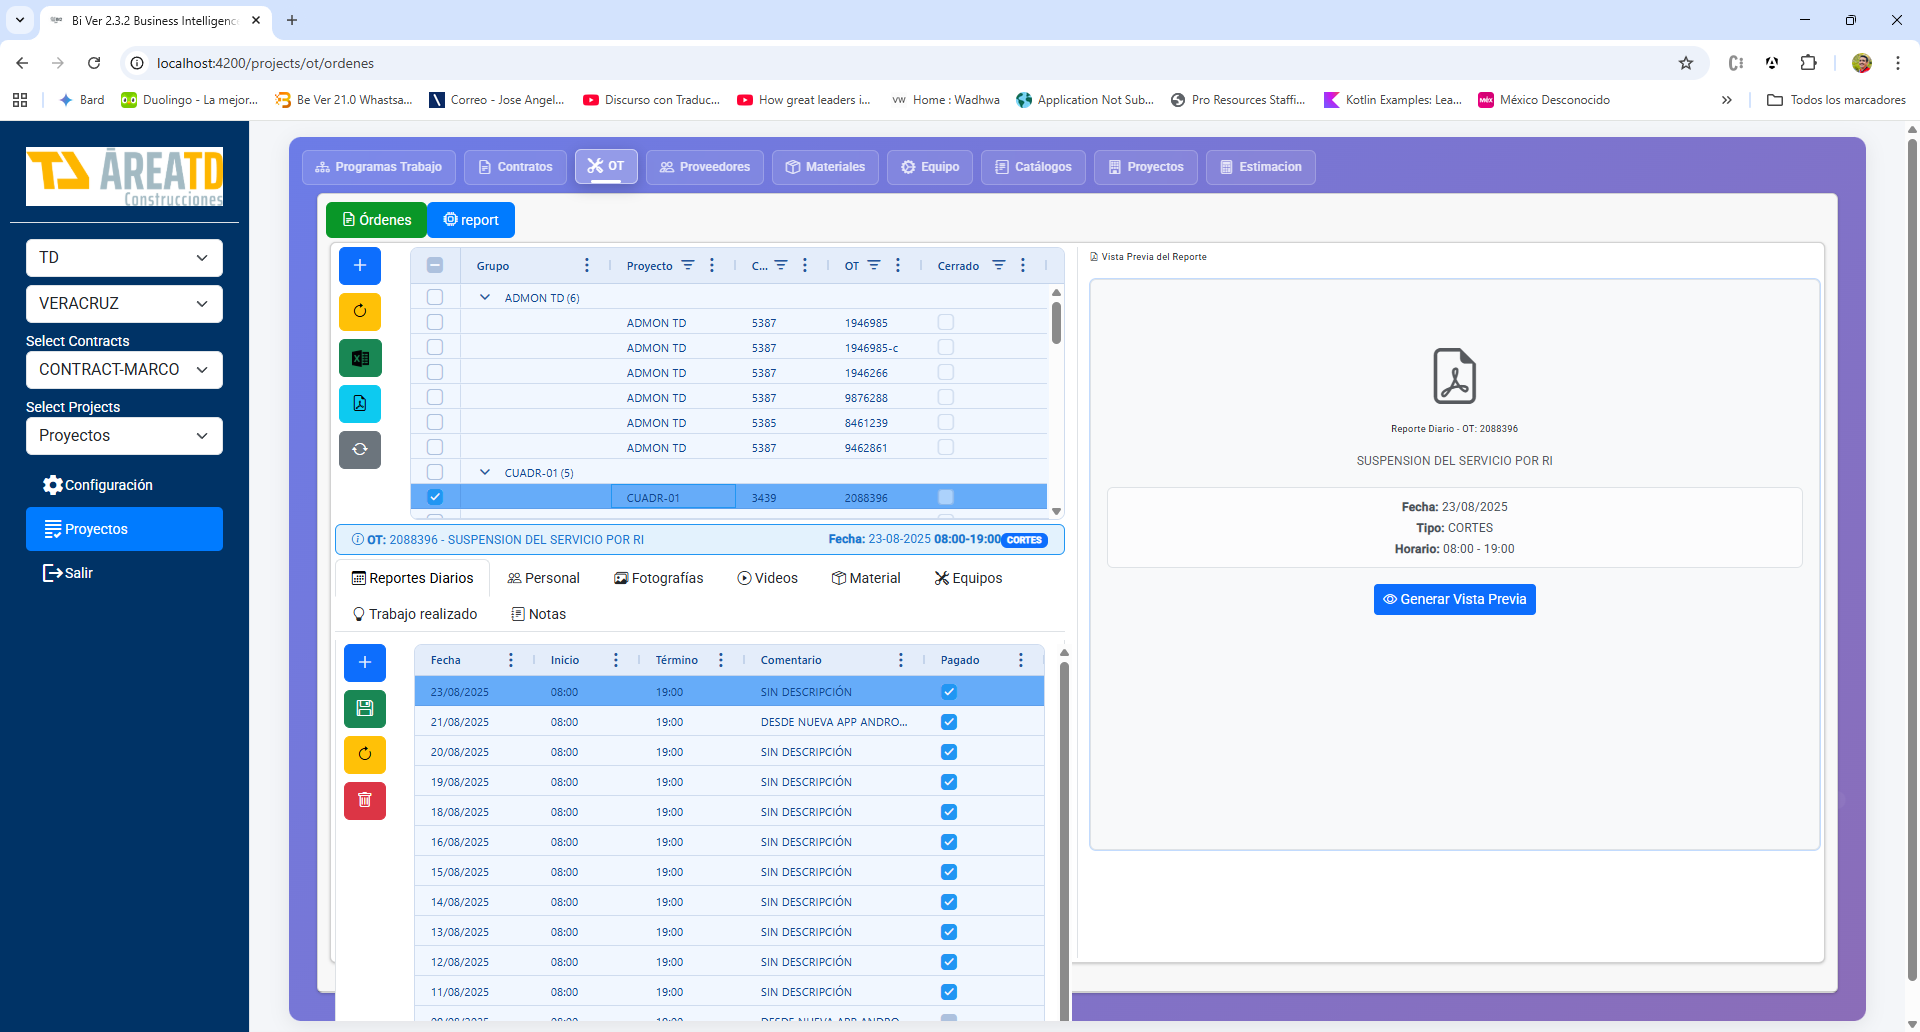
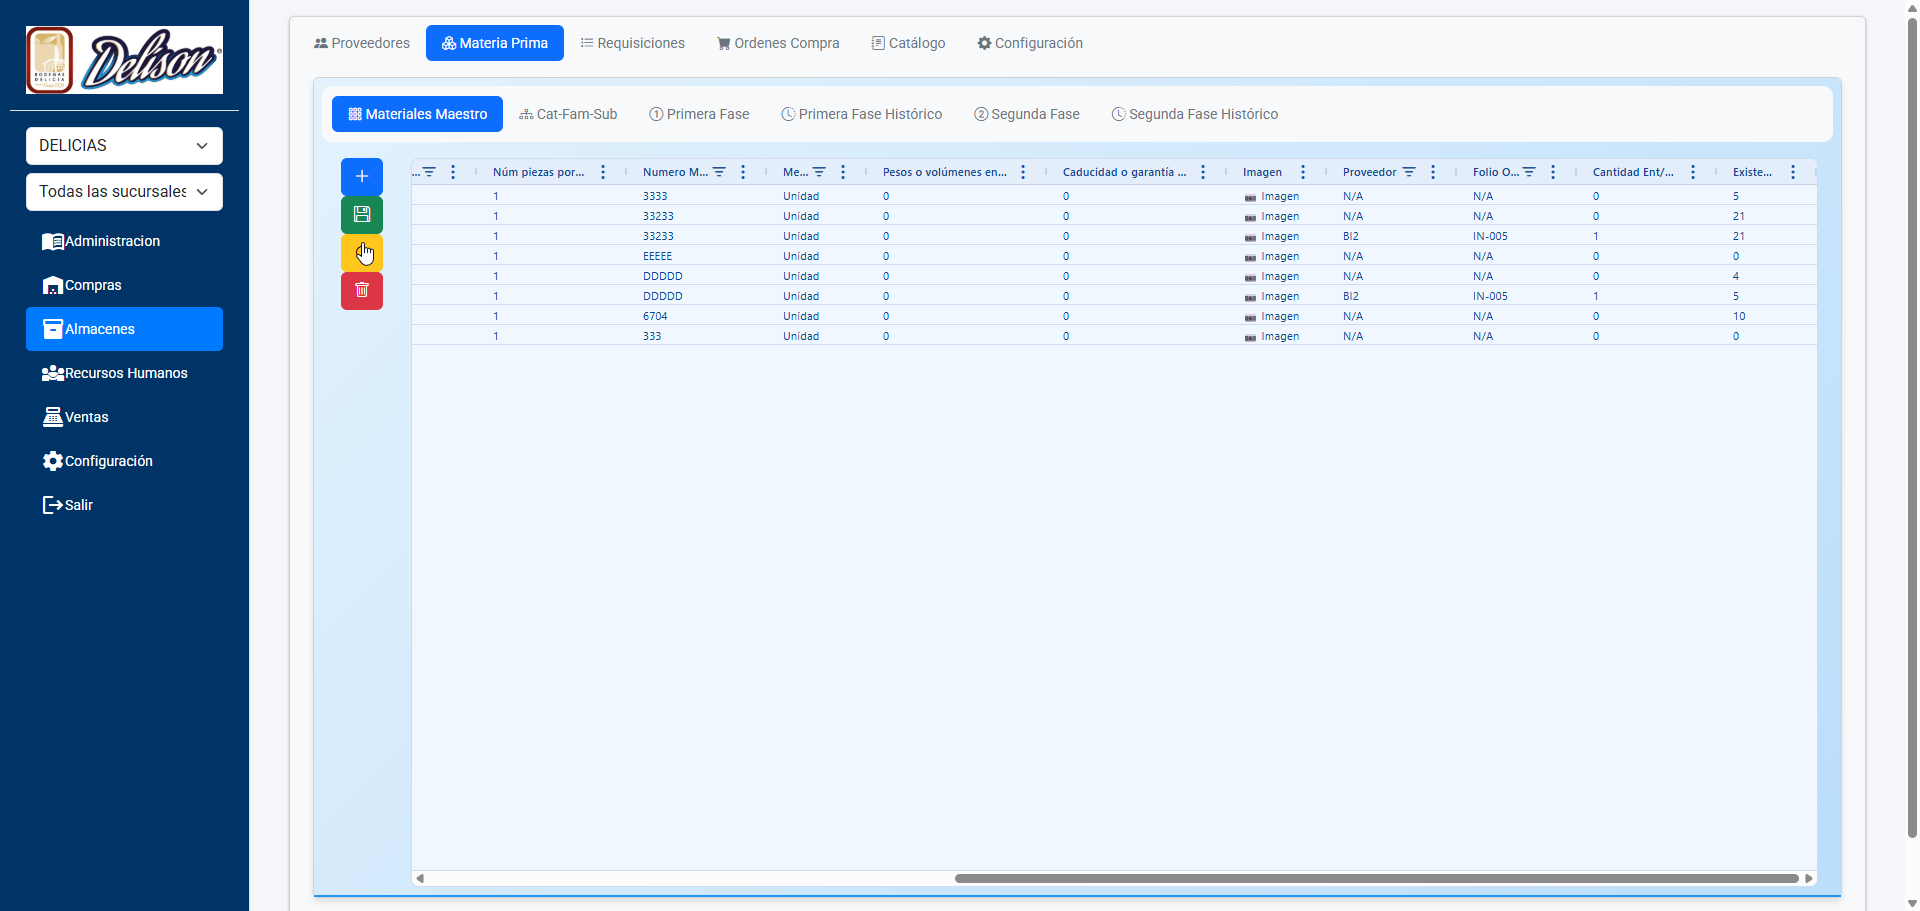
Update changes

diff --git a/src/app/services/materials.service.ts b/src/app/services/materials.service.ts
@@ -18,6 +18,12 @@ export class MaterialsService {
     );
   }
 
+  /*getAllMaterialsxview(id: number): Observable<MaterialsResponse[]> {
+    return this.http.get<MaterialsResponse[]>(`${environment.urlWarehouse}/Material/materialsview/${id}`,
+      { headers: this.trackingService.getHeaders() }
+    );
+  }*/
+
   addMaterial(data: any): Observable<any> {
     console.log('Adding new material:', data);
     return this.http.post(`${environment.urlWarehouse}/Material`, data, {

diff --git a/src/app/domains/ModProjects/components/ot/ordenes/ordenes.component.ts b/src/app/domains/ModProjects/components/ot/ordenes/ordenes.component.ts
@@ -1260,7 +1260,7 @@ public conceptosColumnDefs: ColDef[] = [
     },
     { 
       field: 'close', 
-      headerName: 'Cerrado', 
+      headerName: 'Cerrado Web', 
       //editable: () => !this.signalsService.getClosedReport()(),
       editable: true,
       width: 100,

diff --git a/src/app/domains/ModProjects/components/ot/inspeccion/inspeccion.component.ts b/src/app/domains/ModProjects/components/ot/inspeccion/inspeccion.component.ts
@@ -204,7 +204,7 @@ export class InspeccionComponent implements OnInit {
     },
     {
       field: 'closed',
-      headerName: 'Cerrado',
+      headerName: 'Cerrado Web',
       width: 100,
       cellRenderer: (params) => {
         return params.value ? 

diff --git a/src/app/domains/ModProjects/components/ot/historicoOT/historicoOT.component.ts b/src/app/domains/ModProjects/components/ot/historicoOT/historicoOT.component.ts
@@ -156,7 +156,7 @@ export class HistoricoOTComponent implements OnInit {
       },
       {
         field: 'closed',
-        headerName: 'Cerrado',
+        headerName: 'Cerrado Web',
         sortable: true,
         filter: true,
         resizable: true,

diff --git a/src/environments/environment.ts b/src/environments/environment.ts
@@ -65,7 +65,7 @@ export const environment = {
 
   urlRefreshToken: 'https://securetoken.googleapis.com/v1/token?key=AIzaSyDxCBGKk8nT09hdW85-PyOkhw5_JPZLF1A',
 
-  version: '2.24.4 (28 Agosto 2025 14:08)'
+  version: '2.24.4 (31 Agosto 2025 14:08)'
 
 };
 
